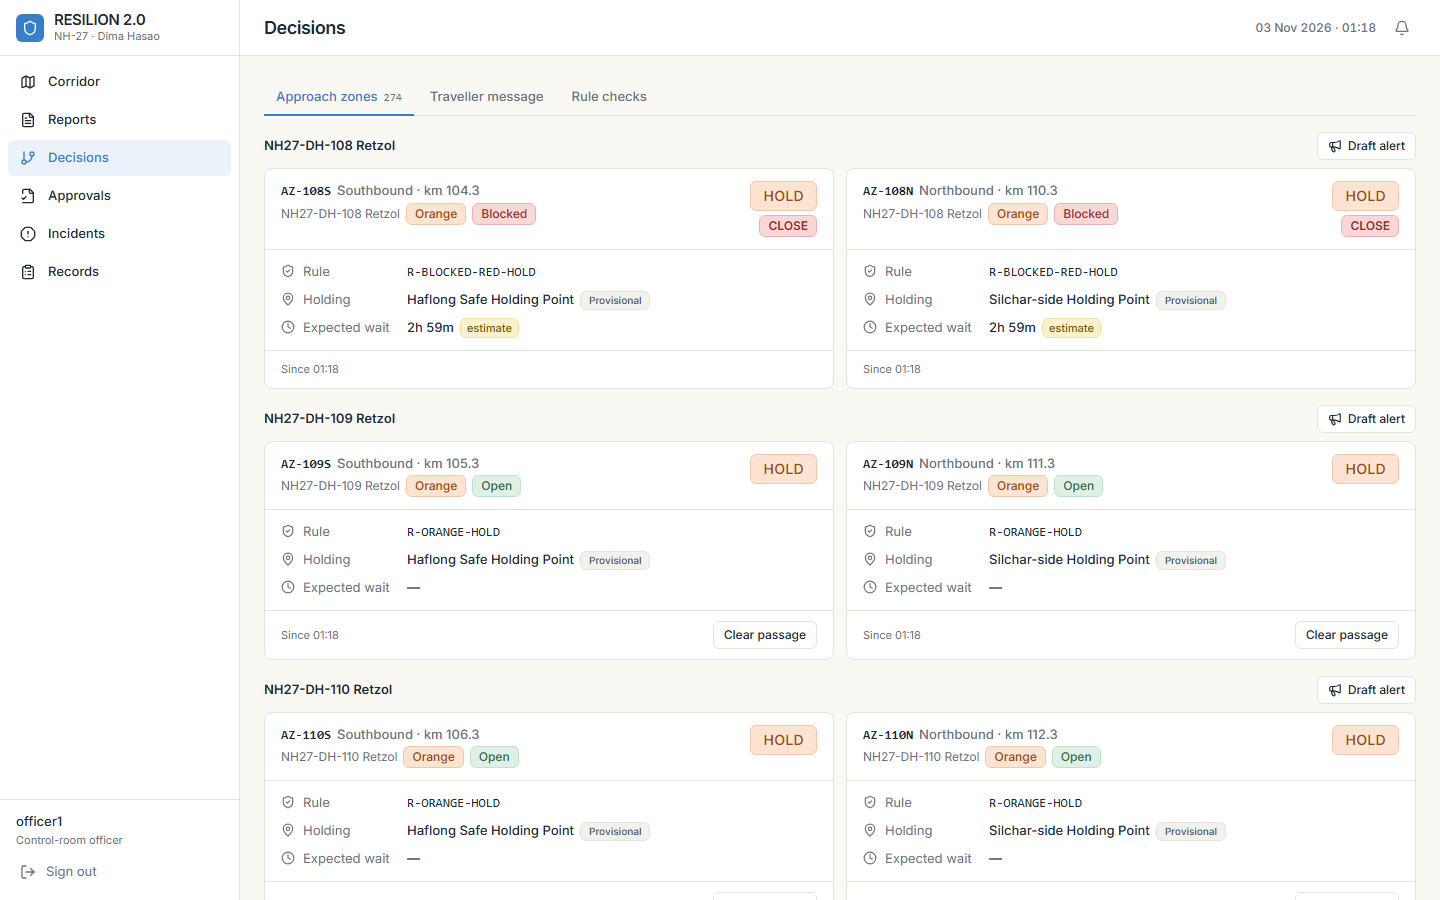
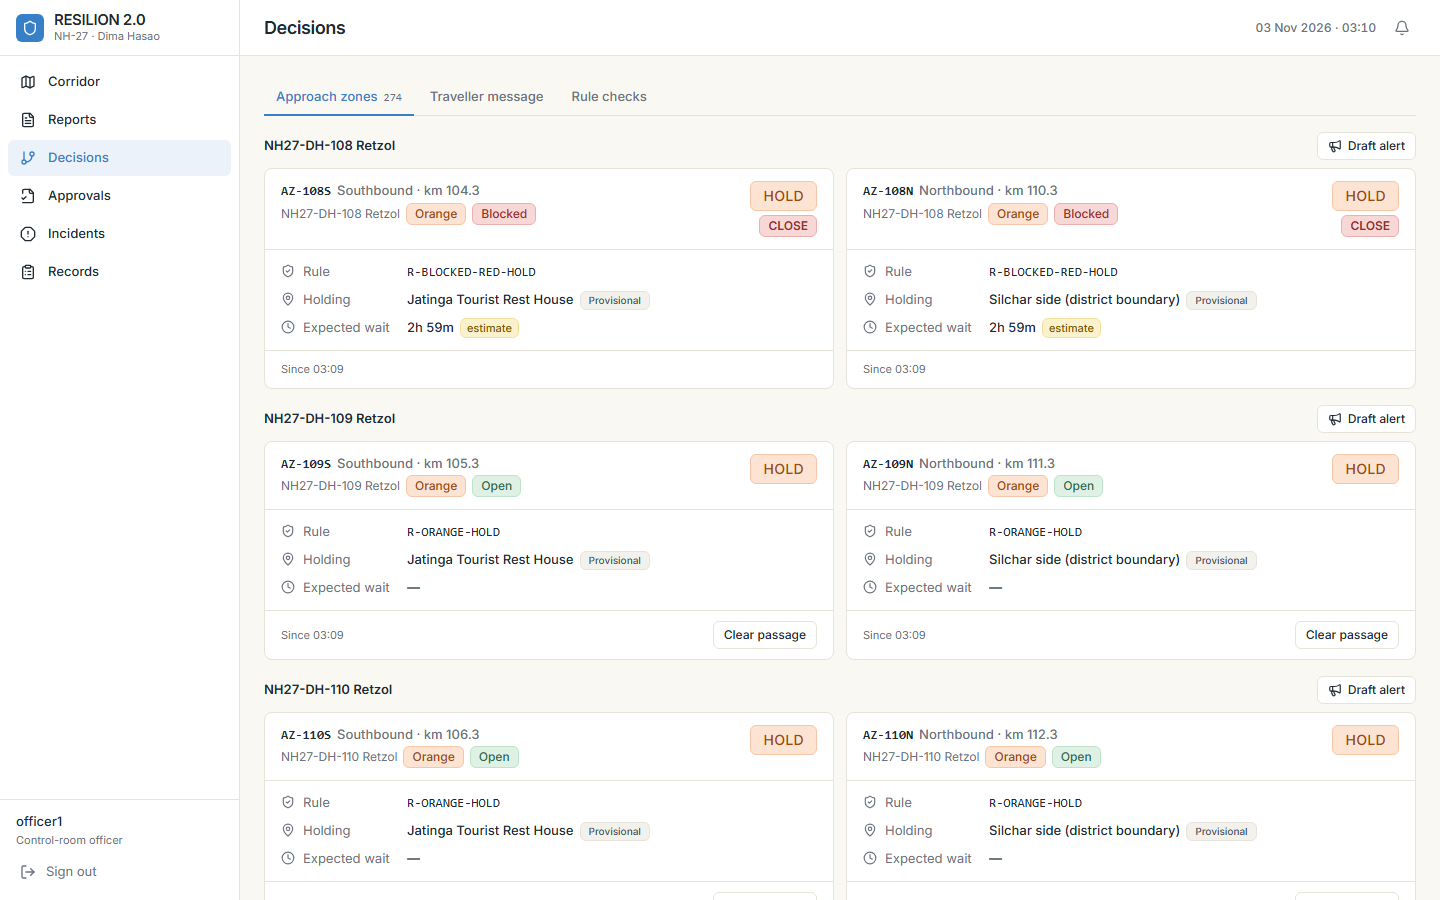
Phase 10 (for completed phases): verification, docs, atomic data reset
- Fix: admin data reset now wipes and re-seeds in one transaction under the
  corridor lock; a SACHET poll (or any request) between the two steps read
  an empty state (KeyError 'config') in the live run.
- docs: AI_PROMPT_LOG.md (purpose -> prompt -> checks), API_CONTRACT
  (withdrawn status, provider labels, SACHET source, nullable capacity,
  gzip), backend README (SACHET, Ollama, holding points, inputs),
  IMPLEMENTATION_AUDIT phase status table.
- verification-2026-11-03.txt: npm 47/47, lint, build, backend 65 passed,
  data tests 10, scenario replay, RESILION 1 unchanged, browser walkthrough
  on the real corridor (60 API calls, 0 failed, 0 console errors),
  performance (56 KB gzip snapshot, 220 ms).

diff --git a/backend/app/main.py b/backend/app/main.py
@@ -89,10 +89,14 @@ def create_app(cfg: Settings = default_settings, store: Optional[Store] = None, 
         """Input feed for the real corridor: re-reads terrain, model score and IMD rainfall from PostGIS."""
         return lambda day: corridor_data.segment_inputs(conn, store.schema, date.fromisoformat(day), clock())
 
-    def seed_if_needed() -> None:
+    def seed_if_needed(wipe: bool = False) -> None:
+        """Seed (optionally after wiping) in ONE transaction under the corridor lock, so no request or feed ever sees
+        an empty state between the wipe and the new seed."""
         store.init_schema()
         with store.connect() as conn:
             conn.execute("SELECT pg_advisory_xact_lock(%s)", (store.lock_key,))
+            if wipe:
+                store.wipe(conn)
             if not store.is_seeded(conn):
                 corridor = None
                 if cfg.corridor_source == "auto":
@@ -273,10 +277,7 @@ def create_app(cfg: Settings = default_settings, store: Optional[Store] = None, 
             wf.guard(sess, "configure")
 
         run(do)
-        with store.connect() as conn:
-            store.wipe(conn)
-            conn.commit()
-        seed_if_needed()
+        seed_if_needed(wipe=True)
 
     return app
 

diff --git a/docs/AI_PROMPT_LOG.md b/docs/AI_PROMPT_LOG.md
@@ -1,0 +1,29 @@
+# AI prompt log (AI-usage appendix)
+
+RESILION 2.0 uses a language model for exactly two things (PRD §9): the **photo check** (FR-21) and the **alert
+writer** (FR-27/28). Claude Sonnet 5.5 (`claude-sonnet-5-5`) when `ANTHROPIC_API_KEY` is set; otherwise, by owner
+decision 2026-11, an optional free local model through Ollama (`AI_PROVIDER=ollama`, default `qwen2.5vl:7b`),
+shown as **"Local model"**, never as Claude. The landslide susceptibility model is a separate LightGBM model
+(`docs/MODEL_CARD.md`), not a language model.
+
+| # | Purpose | Prompt (source) | What is checked / corrected in code |
+|---|---|---|---|
+| 1 | Photo check: class, share of road blocked, confidence | `PHOTO_SYSTEM` in `backend/app/ai.py`; user turn = photo + `<report_metadata>{location, captured_at, note}</report_metadata>` + "Classify the photo." | Output forced to JSON schema `PHOTO_SCHEMA` (class ∈ debris / crack / fallen_tree / water / clear / not_relevant). Unknown class → `AIUnavailable` → manual review (FR-26). `blocked_share` clamped 0–100, 0 for clear / not_relevant; confidence clamped 0–1. The reporter's note is passed only inside the metadata block and the prompt says to ignore instructions in it (BR-10). The result never changes road state (BR-07); only an officer can. |
+| 2 | Alert writer: en / hi / as / bn text from an approved template | `ALERT_SYSTEM` in `backend/app/ai.py`; user turn = `<alert_input>{fields, reference_templates}</alert_input>` + "Write the four alerts." | Output forced to JSON schema `ALERT_SCHEMA`. Every text is validated by `validateAlert` (`src/domain/alerts.ts`, Python port in `app/domain/alerts.py`): segment ID, direction words, decision keywords, place names, head keyword, reopening time, no other times or known places, no hurry wording. Any mismatch → that language is blocked and the plain template is used (BR-09). An officer approves every alert (BR-08). |
+| 3 | Local model (same two uses) | Same prompts and schemas, sent to Ollama `/api/chat` with `format` = the JSON schema (`backend/app/ai_local.py`) | Same checks as 1–2; timeout / HTTP error / invalid JSON → `AIUnavailable` (tested in `backend/tests/test_ai_local.py`). Model stored as `local:<model>`; UI label "Local model". |
+
+## Changes made after review
+
+- Report text moved into a delimited metadata block, with an explicit instruction to treat it as untrusted data (BR-10).
+- Refusal / truncation / invalid output all fail safe to manual review or the plain template, never to a guessed value.
+- Local model labelled `local:<model>` end to end, so the UI cannot show it as Claude.
+
+## Runs with a real model (status 2026-11-03)
+
+- **Claude:** not run — no `ANTHROPIC_API_KEY` provided. Tested with a stand-in model only (`test_api.py`, `test_ai.py`).
+- **Local model:** not run — `ollama pull qwen2.5vl:7b` failed on this laptop (DNS lookup of Ollama's storage host failed
+  after 5.8 MB of 6.0 GB). The installed `qwen2.5:3b-instruct` is text-only and cannot do the photo check.
+- **Photo evaluation set:** `backend/scripts/fetch_photo_eval.py` written but not run (owner decision pending on the
+  Wikimedia request); labels must be confirmed by the owner before any evaluation (`docs/PHOTO_EVAL.md` not produced yet).
+
+AC-14, AC-19 and AC-21 therefore remain tested with a stand-in model only.

diff --git a/docs/IMPLEMENTATION_AUDIT.md b/docs/IMPLEMENTATION_AUDIT.md
@@ -124,6 +124,25 @@ Delegated by the owner (Abishek) and implemented as stated; BR-01..BR-12 are unc
 4. **Optional free local model (Ollama)** may stand in for the photo check and alert writer when no
    `ANTHROPIC_API_KEY` is set, always labelled "Local model", never "Claude". This changes PRD §9 (model) for that case.
 
+## Real-data strengthening, phase status (2026-11-03)
+
+| Phase | Status | Evidence |
+|---|---|---|
+| 1 Weights 25/45/15/15, two zones per segment, "withdrawn" status, tests | Done | table above; `test_real_corridor.py` (every Red/Orange segment has zones; no HOLD on the dry date), `server.test.ts` (withdrawal) |
+| 2 Holding points from OSM | Done — 5 OSM candidates + 2 corridor ends, all Provisional / verified=no; no fuel station within 300 m; Haflong town centre 3.6 km off NH-27 | `backend/inputs/holding_points.csv` |
+| 3 Real incidents | Done — 12 rows with source URLs (2 excluded from the back-test); **awaiting owner "incidents OK"** | `backend/inputs/incidents.csv` |
+| 4 Open-Meteo rainfall (archive + live) | Not started — waits for "incidents OK" as instructed | — |
+| 5 Back-test | Not started — needs Phases 3–4 | — |
+| 6 SACHET IMD warnings | Done — public feed works; parser tested on real samples; raise-only into `imdWarning` | `backend/app/sachet.py`, `backend/tests/test_sachet.py`, `backend/inputs/sachet_sample.*` |
+| 7 AI provider / photo evaluation | Partial — local provider + labels done and tested with a stub; `qwen2.5vl:7b` download failed (DNS); photo set script not run (owner decision pending); no real-model evaluation | `backend/app/ai_local.py`, `docs/AI_PROMPT_LOG.md` |
+| 8 OSRM diversions | Blocked — Docker installed but engine not running; not started on this low-memory laptop without the owner | — |
+| 9 Translation review sheet | Done — 45 rows | `backend/inputs/translations_review.csv` |
+| 10 Verify and document | Done for the completed phases | `docs/evidence/verification-2026-11-03.txt` |
+
+Status changes from this round: **AC-09 / ST-08** BR-04 chains now use OSM-derived candidates on all 274 zones;
+**AC-04 / ST-02** IMD warnings can come from the live SACHET feed (labelled with alert ID); **AC-10 / ST-09** stale CLOSE
+recommendations get status "withdrawn". AC-14, AC-19, AC-21 still tested with a stand-in model only.
+
 ## Contradictions / decisions to note
 
 - **Risk Index calibration on real data (owner decision).** With the default weights 35/30/20/15 and thresholds 30/55/75,

diff --git a/backend/README.md b/backend/README.md
@@ -117,3 +117,32 @@ Browser walkthrough of F1 → F3 → F2 on the real corridor (backend on :8000, 
 backend\.venv-data\Scripts\python.exe -m playwright install chromium
 backend\.venv-data\Scripts\python.exe backend\scripts\e2e_walkthrough.py   # screenshots docs/evidence/30-42
 ```
+
+## Live IMD warnings (NDMA SACHET)
+
+`FEEDS_ENABLED=true` in `backend/.env` starts a 30-minute poll (`SACHET_POLL_MINUTES`) of the public SACHET alert list
+(`https://sachet.ndma.gov.in/cap_public_website/FetchAllAlertDetails`; RSS / CAP 1.2: `.../rss/rss_india.xml`). No key.
+Only alerts in effect, from IMD or the Assam SDMA, of a rainfall/thunderstorm/landslide type and naming Dima Hasao count;
+the colour is SACHET's own `severity_color`. Parser and rules: `app/sachet.py`, tests `tests/test_sachet.py` on real
+samples in `inputs/sachet_sample.xml|json`. GSI bulletins stay manual (no API).
+
+## Optional free local model (Ollama)
+
+Only when `ANTHROPIC_API_KEY` is empty: set `AI_PROVIDER=ollama` (and optionally `OLLAMA_MODEL`, default
+`qwen2.5vl:7b`, `OLLAMA_URL`, `OLLAMA_TIMEOUT_S`). Install Ollama from https://ollama.com, then `ollama pull qwen2.5vl:7b`
+(about 6 GB). Same prompts, labels and fail-safe behaviour as Claude (`app/ai_local.py`); results are stored as
+`local:<model>` and shown as "Local model". Prompt log: `docs/AI_PROMPT_LOG.md`.
+
+## Holding points and other inputs
+
+- `scripts/holding_points_osm.py` → `inputs/holding_points.csv` (OSM candidates within 300 m of NH-27, verified=no),
+  then `scripts/segment_nh27.py` snaps them and rebuilds the 274 zones' BR-04 chains.
+- `inputs/incidents.csv`: NH-27 incidents with source URLs (for the back-test; owner check pending).
+- `inputs/translations_review.csv` (`npx tsx scripts/translation-sheet.ts`): template lines for native-speaker review.
+- `scripts/scenario_report.py <dates>`: segments per level and zone decisions for IMD rainfall dates (read only).
+- `scripts/measure_perf.py`: snapshot size / latency and page load.
+
+## Not set up yet
+
+- **OSRM diversions:** Docker Desktop is installed but its engine was not running; building OSRM for the North-Eastern
+  Zone needs several GB of RAM. Start Docker Desktop first.

diff --git a/docs/API_CONTRACT.md b/docs/API_CONTRACT.md
@@ -65,3 +65,21 @@ mode is unchanged):
   slope, rainfall, history) marks the segment `sample: true` (and a manual category drops the model score); setting only
   `imdWarning` / `gsiBulletin` keeps the real data.
 - Segment IDs `NH27-DH-001…137`; zones `AZ-<nnn>S` (southbound, before the segment) and `AZ-<nnn>N` (northbound).
+
+## Changes 2026-11 (owner decisions)
+
+| Where | Field / value | Meaning |
+|---|---|---|
+| `Approval.status` | `"withdrawn"` | a CLOSE recommendation the rules no longer support, withdrawn by the decision engine (`decidedBy: "Decision engine"`, audit "CLOSE recommendation withdrawn"). Cannot be approved. Replaces the earlier use of `"rejected"` for this case. |
+| `DEFAULT_CONFIG.weights` | 25 / 45 / 15 / 15 | susceptibility / rainfall / slope / history (thresholds unchanged) |
+| `Snapshot.zones` | 274 on the real corridor | two per segment: `AZ-<nnn>S` (southbound, before the segment) and `AZ-<nnn>N` (northbound, after it) |
+| `SafeHoldingPoint.capacityVehicles` | `number \| null` | null = unknown (OSM has no capacity); never invented |
+| `SafeHoldingPoint.source`, `.verified`, `.lat`, `.lon` | optional | e.g. `osm:245731951`; `verified` false until the district confirms; real location for the map |
+| `SegmentInputs.imdWarningSource` | optional string | `"SACHET <alert id> · <source> · until <time>"` when set by the SACHET feed, `"Officer"` when set in Configuration |
+| `AiClassification.model` | `"local:<model>"` | the optional Ollama provider; the UI shows "Local model" (Claude model ids show "Claude") |
+| `Alert.writerModel` | optional string | model that wrote the alert texts (same labelling) |
+
+- **SACHET feed** (`FEEDS_ENABLED=true`, real corridor only): every `SACHET_POLL_MINUTES` the backend reads NDMA SACHET's
+  public alert list; the highest IMD colour in effect for Dima Hasao sets `imdWarning` on every segment. It can raise an
+  officer-set warning but never lowers one, and clears only warnings it set itself. BR-05 / BR-11 apply unchanged.
+- **API responses are gzip-compressed** when the client sends `Accept-Encoding: gzip` (snapshot ~570 KB → ~48 KB).
